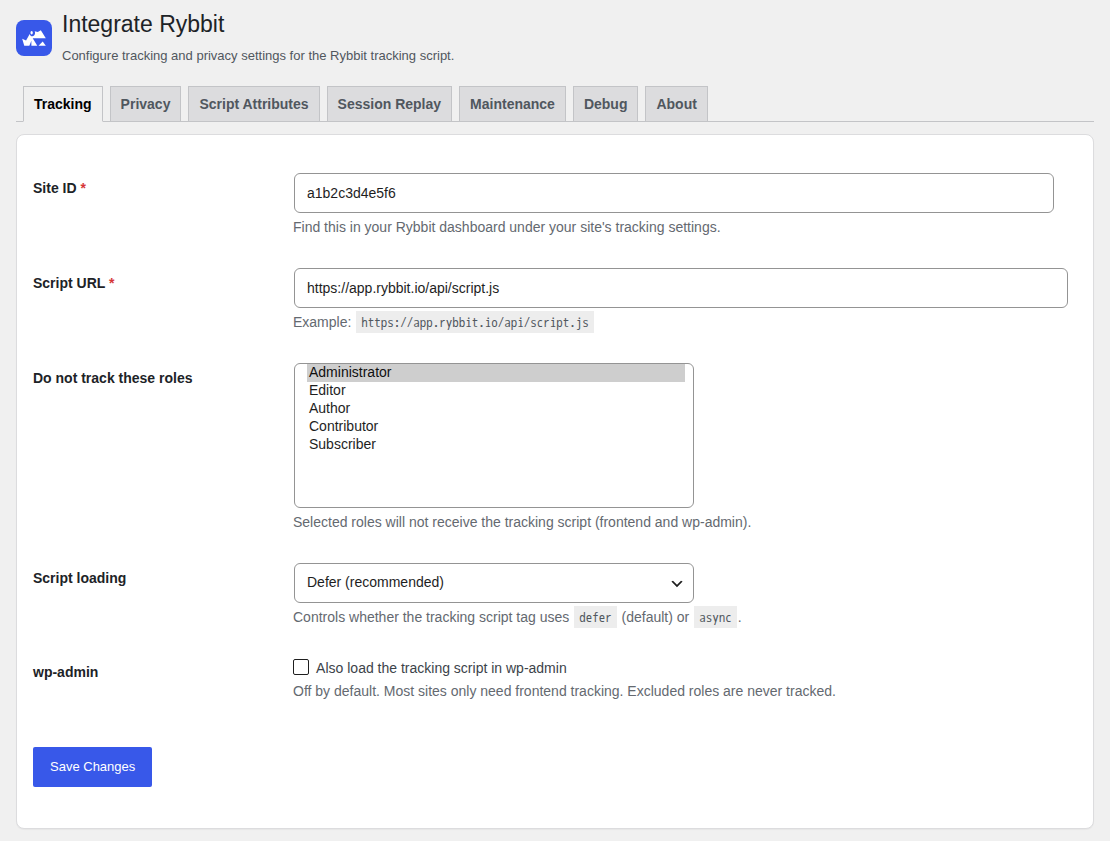
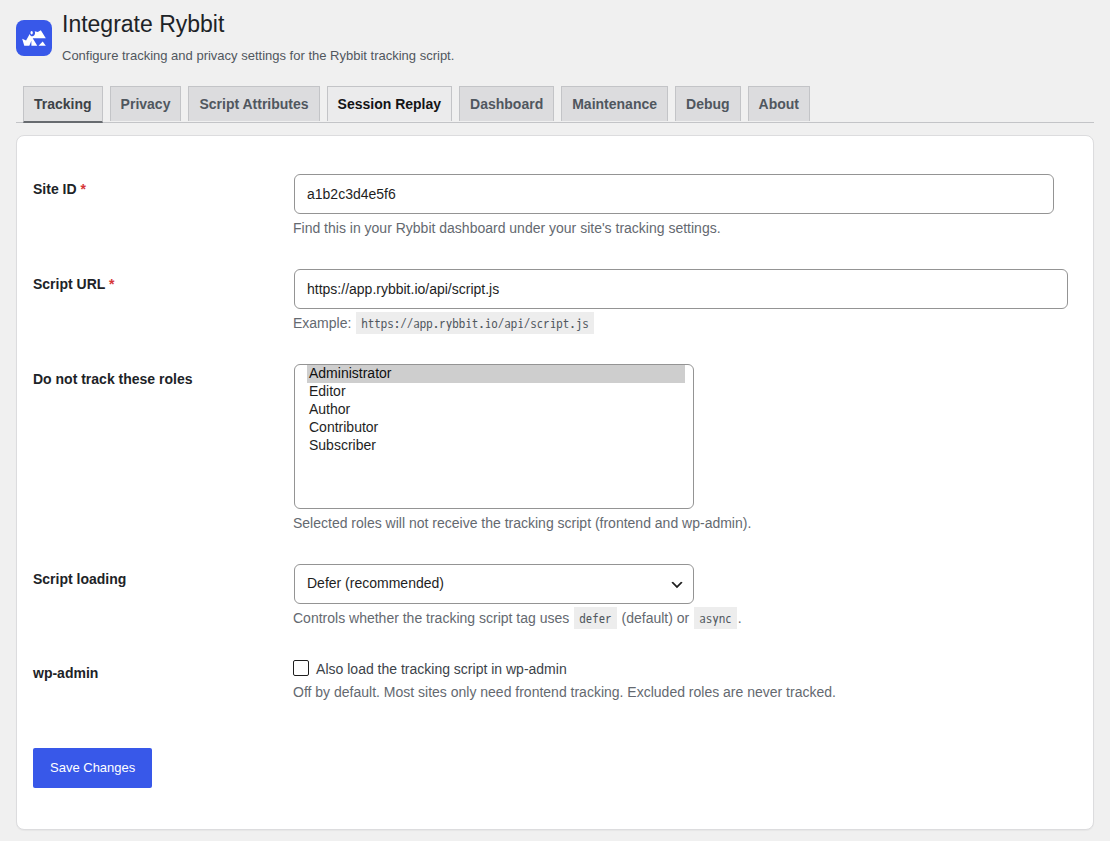
docs: document dashboard and update screenshots

diff --git a/README.md b/README.md
@@ -14,6 +14,9 @@ Get the plugin from the [WordPress.org plugin directory](https://wordpress.org/p
 ## Features
 
 - Works with Rybbit Cloud and with self-hosted Rybbit instances.
+- Analytics dashboard in wp-admin (optional, needs a Rybbit API key): a widget on the WordPress dashboard and a page at
+  `Dashboard` > `Rybbit Analytics`. It shows visitors, pageviews, bounce rate, visit duration, visitors online,
+  a chart and the top pages, referrers, countries, devices and browsers.
 - Do not track selected user roles. Administrators are excluded by default.
 - Optional tracking inside wp-admin. It is off by default.
 - Load the script with `defer` (recommended) or `async`.
@@ -24,7 +27,8 @@ Get the plugin from the [WordPress.org plugin directory](https://wordpress.org/p
 - Session replay privacy settings: block, ignore and mask elements, mask inputs, sampling and DOM slimming.
 - Debug tab with the effective settings and the generated script attributes.
 - Developer filters: `integrate_rybbit_should_track`, `integrate_rybbit_script_attributes`,
-  `integrate_rybbit_identify_user_id` and `integrate_rybbit_identify_traits`.
+  `integrate_rybbit_identify_user_id`, `integrate_rybbit_identify_traits`,
+  `integrate_rybbit_dashboard_capability` and `integrate_rybbit_api_http_args`.
   See [readme.txt](integrate-rybbit/readme.txt) for details and an example.
 
 ## Requirements
@@ -54,9 +58,28 @@ To install a release from GitHub:
 
 All other settings are optional.
 
+### Analytics dashboard
+
+The dashboard reads the numbers from the Rybbit API. It needs an API key.
+
+1. In Rybbit, go to `Organization settings` > `API keys` and create a key.
+2. In WordPress, go to `Settings` > `Integrate Rybbit` > `Dashboard`, enter the key and save.
+3. Click `Test connection`. After this, the widget and the page `Dashboard` > `Rybbit Analytics` are available.
+
+Notes:
+
+- Rybbit Cloud offers API keys on the Standard plan and above. Self-hosted instances have no such limit.
+  The tracking works on every plan.
+- You can define the key in `wp-config.php` instead of the database. This key replaces the saved key:
+  `define( 'INTEGRATE_RYBBIT_API_KEY', 'your-key' );`
+- The key stays on the server. The browser only talks to a REST route of your site (`integrate-rybbit/v1/stats`).
+- The plugin caches the API answers (10 minutes by default) to save API requests.
+- Only users with the capability `manage_options` see the dashboard. Change it with the filter `integrate_rybbit_dashboard_capability`.
+
 ## Screenshots
 
 ![Tracking tab](assets/screenshot-1.png)
+![Analytics page](assets/screenshot-5.png)
 
 More screenshots are in the [assets](assets/) folder.
 
@@ -84,6 +107,7 @@ make down          # Stop WordPress.
 | `make phpcbf`       | Fixes coding standard issues that can be fixed automatically.                        |
 | `make dev`          | Starts WordPress at http://localhost:8080 with the plugin active (`admin` / `admin`). |
 | `make plugin-check` | Runs the official [Plugin Check](https://wordpress.org/plugins/plugin-check/).       |
+| `make test-dashboard` | Tests the analytics dashboard backend against the mock Rybbit API.                 |
 | `make pot`          | Generates `build/integrate-rybbit.pot` to review the translatable strings.          |
 | `make screenshots`  | Retakes the screenshots in `assets/` with a headless browser in Docker.             |
 | `make logs`         | Shows the WordPress debug log.                                                       |
@@ -98,6 +122,9 @@ Notes:
 - Use `WP_IMAGE_TAG=6.5 make dev` to test with an older WordPress version.
   Start with `make clean` when you change the WordPress version.
 - `make screenshots` overwrites the plugin settings of the development site with example values.
+- `make dev` also starts a mock of the Rybbit API (`tools/mock-rybbit`) with fixed demo data
+  and connects the development site to it (API key `demo-key`). It is available at http://localhost:3001.
+  These keys trigger errors: `bad-key` (401), `forbidden-key` (403) and `slow-key` (429).
 - The settings are stored with the option prefix `rybbit_`.
   The plugin migrates old settings on update (option `integrate_rybbit_db_version`).
 
@@ -107,6 +134,8 @@ Notes:
 integrate-rybbit/        The plugin. Only this folder is deployed to WordPress.org.
 assets/                  Icons and screenshots for WordPress.org.
 tools/                   Docker setup for the checks and the development environment.
+tools/mock-rybbit/       Mock of the Rybbit Stats API for the dashboard tests and the screenshots.
+tools/tests/             Tests that run inside the development WordPress.
 phpcs.xml.dist           PHPCS rules.
 .github/workflows/       CI and release workflows.
 ```
